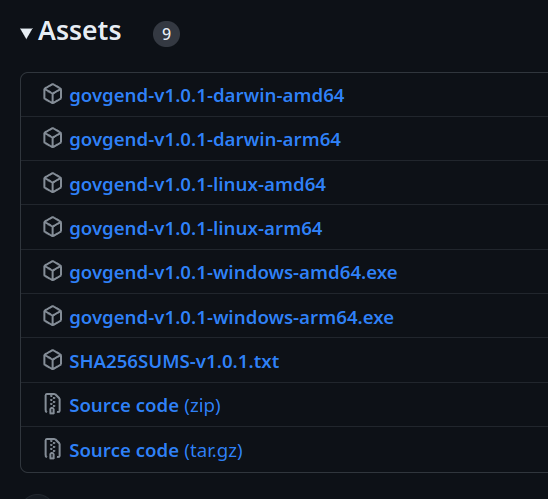
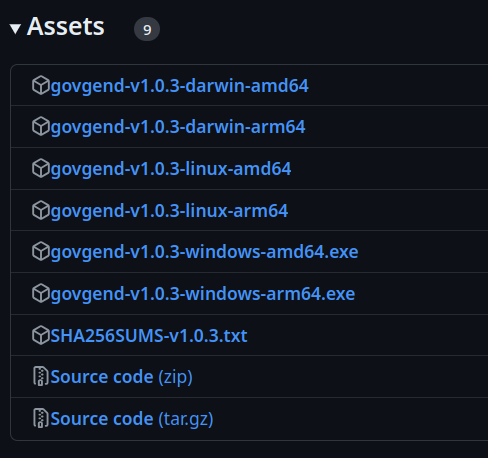
doc: update govgen version in sign tx guide

diff --git a/submit-tx-securely.md b/submit-tx-securely.md
@@ -45,23 +45,23 @@ any reason, it would be unable to send data to a potential attacker.
 
 ### 1. Download the `govgend` binary
 
-- Go to https://github.com/atomone-hub/govgen/releases/tag/v1.0.1 (or the
+- Go to https://github.com/atomone-hub/govgen/releases/tag/v1.0.3 (or the
   [latest available release](https://github.com/atomone-hub/govgen/releases)
   used by the GovGen chain)
 
 ![assets](img/assets.png)
 
 - Download the binary that corresponds to your OS
-- Download the file `SHA256SUMS-v1.0.1.txt`
+- Download the file `SHA256SUMS-v1.0.3.txt`
 - Make sure that the `sha256sum` of the binary you have downloaded matches the
   `sha1sum` listed in that file. From a terminal window type:
 
 ```bash
-sha256sum -c --ignore-missing SHA256SUMS-v1.0.1.txt 
+sha256sum -c --ignore-missing SHA256SUMS-v1.0.3.txt 
 ```
 
 ```bash
-govgend-v1.0.1-linux-amd64: OK
+govgend-v1.0.3-linux-amd64: OK
 ```
 
 - Safely copy the binary into your **offline** and **online computers**, to a
@@ -82,7 +82,7 @@ alternatively (you can know its location on the online computer typing `which
 govgend`):
 
 ```bash
-git clone --branch v1.0.1 --depth 1 https://github.com/atomone-hub/govgen.git
+git clone --branch v1.0.3 --depth 1 https://github.com/atomone-hub/govgen.git
 cd govgen && make install
 ```
 
@@ -98,7 +98,7 @@ GOROOT=$(go1.20.14 env GOROOT) PATH=$GOROOT/bin:$PATH make install
 ```
 
 After the command has been executed, verify your binary and ensure it produces
-the following output (for version v1.0.1):
+the following output (for version v1.0.3):
 
 ```bash
 govgend version --long
@@ -107,16 +107,31 @@ govgend version --long
 ```bash
 name: govgen
 server_name: govgend
-version: main-023ed8235a82e68079b2a61c2fa1be3f06cf7a6b
-commit: 023ed8235a82e68079b2a61c2fa1be3f06cf7a6b
+version: v1.0.3
+commit: 9c650a57c5e5de48bb3d59dc734ec18c10e39a2c
 build_tags: netgo,ledger
 go: go version go1.20.14 linux/amd64
 ```
 
+Similarly to the download step, and because Govgen has reproducible builds, you
+can assert that the compiled binary has the same signature than the one from
+the github release:
+
+- Download the file `SHA256SUMS-v1.0.3.txt` at the [github release page][v1.0.3]
+- Make sure that the `sha256sum` of the binary you have compiled matches the
+  `sha1sum` listed in the file that corresponds to your OS/architecture.
+
+```bash
+cat SHA256SUMS-v1.0.3.txt
+sha256sum $GOPATH/bin/govgend
+```
+
 > [!WARNING]
 > If you use `go install ./cmd/govgend` or any other method besides `make
-> install` to build the binary, this will likely result in dropped features
-> such as Ledger support, which is probably not what you want.
+> install` or `make build` to build the binary, this will likely result in
+> dropped features such as Ledger support, which is probably not what you want.
+> You also won't be able to have the same signature hash than the ones of the
+> github release.
 
 ### 2. Add your Ledger account to `govgend`’s keyring
 
@@ -453,3 +468,4 @@ covers issues related to private key management and transaction signing, adding
 an additional layer of security by only performing the signing using an offline
 computer.
 
+[v1.0.3]: https://github.com/atomone-hub/govgen/releases/tag/v1.0.3
